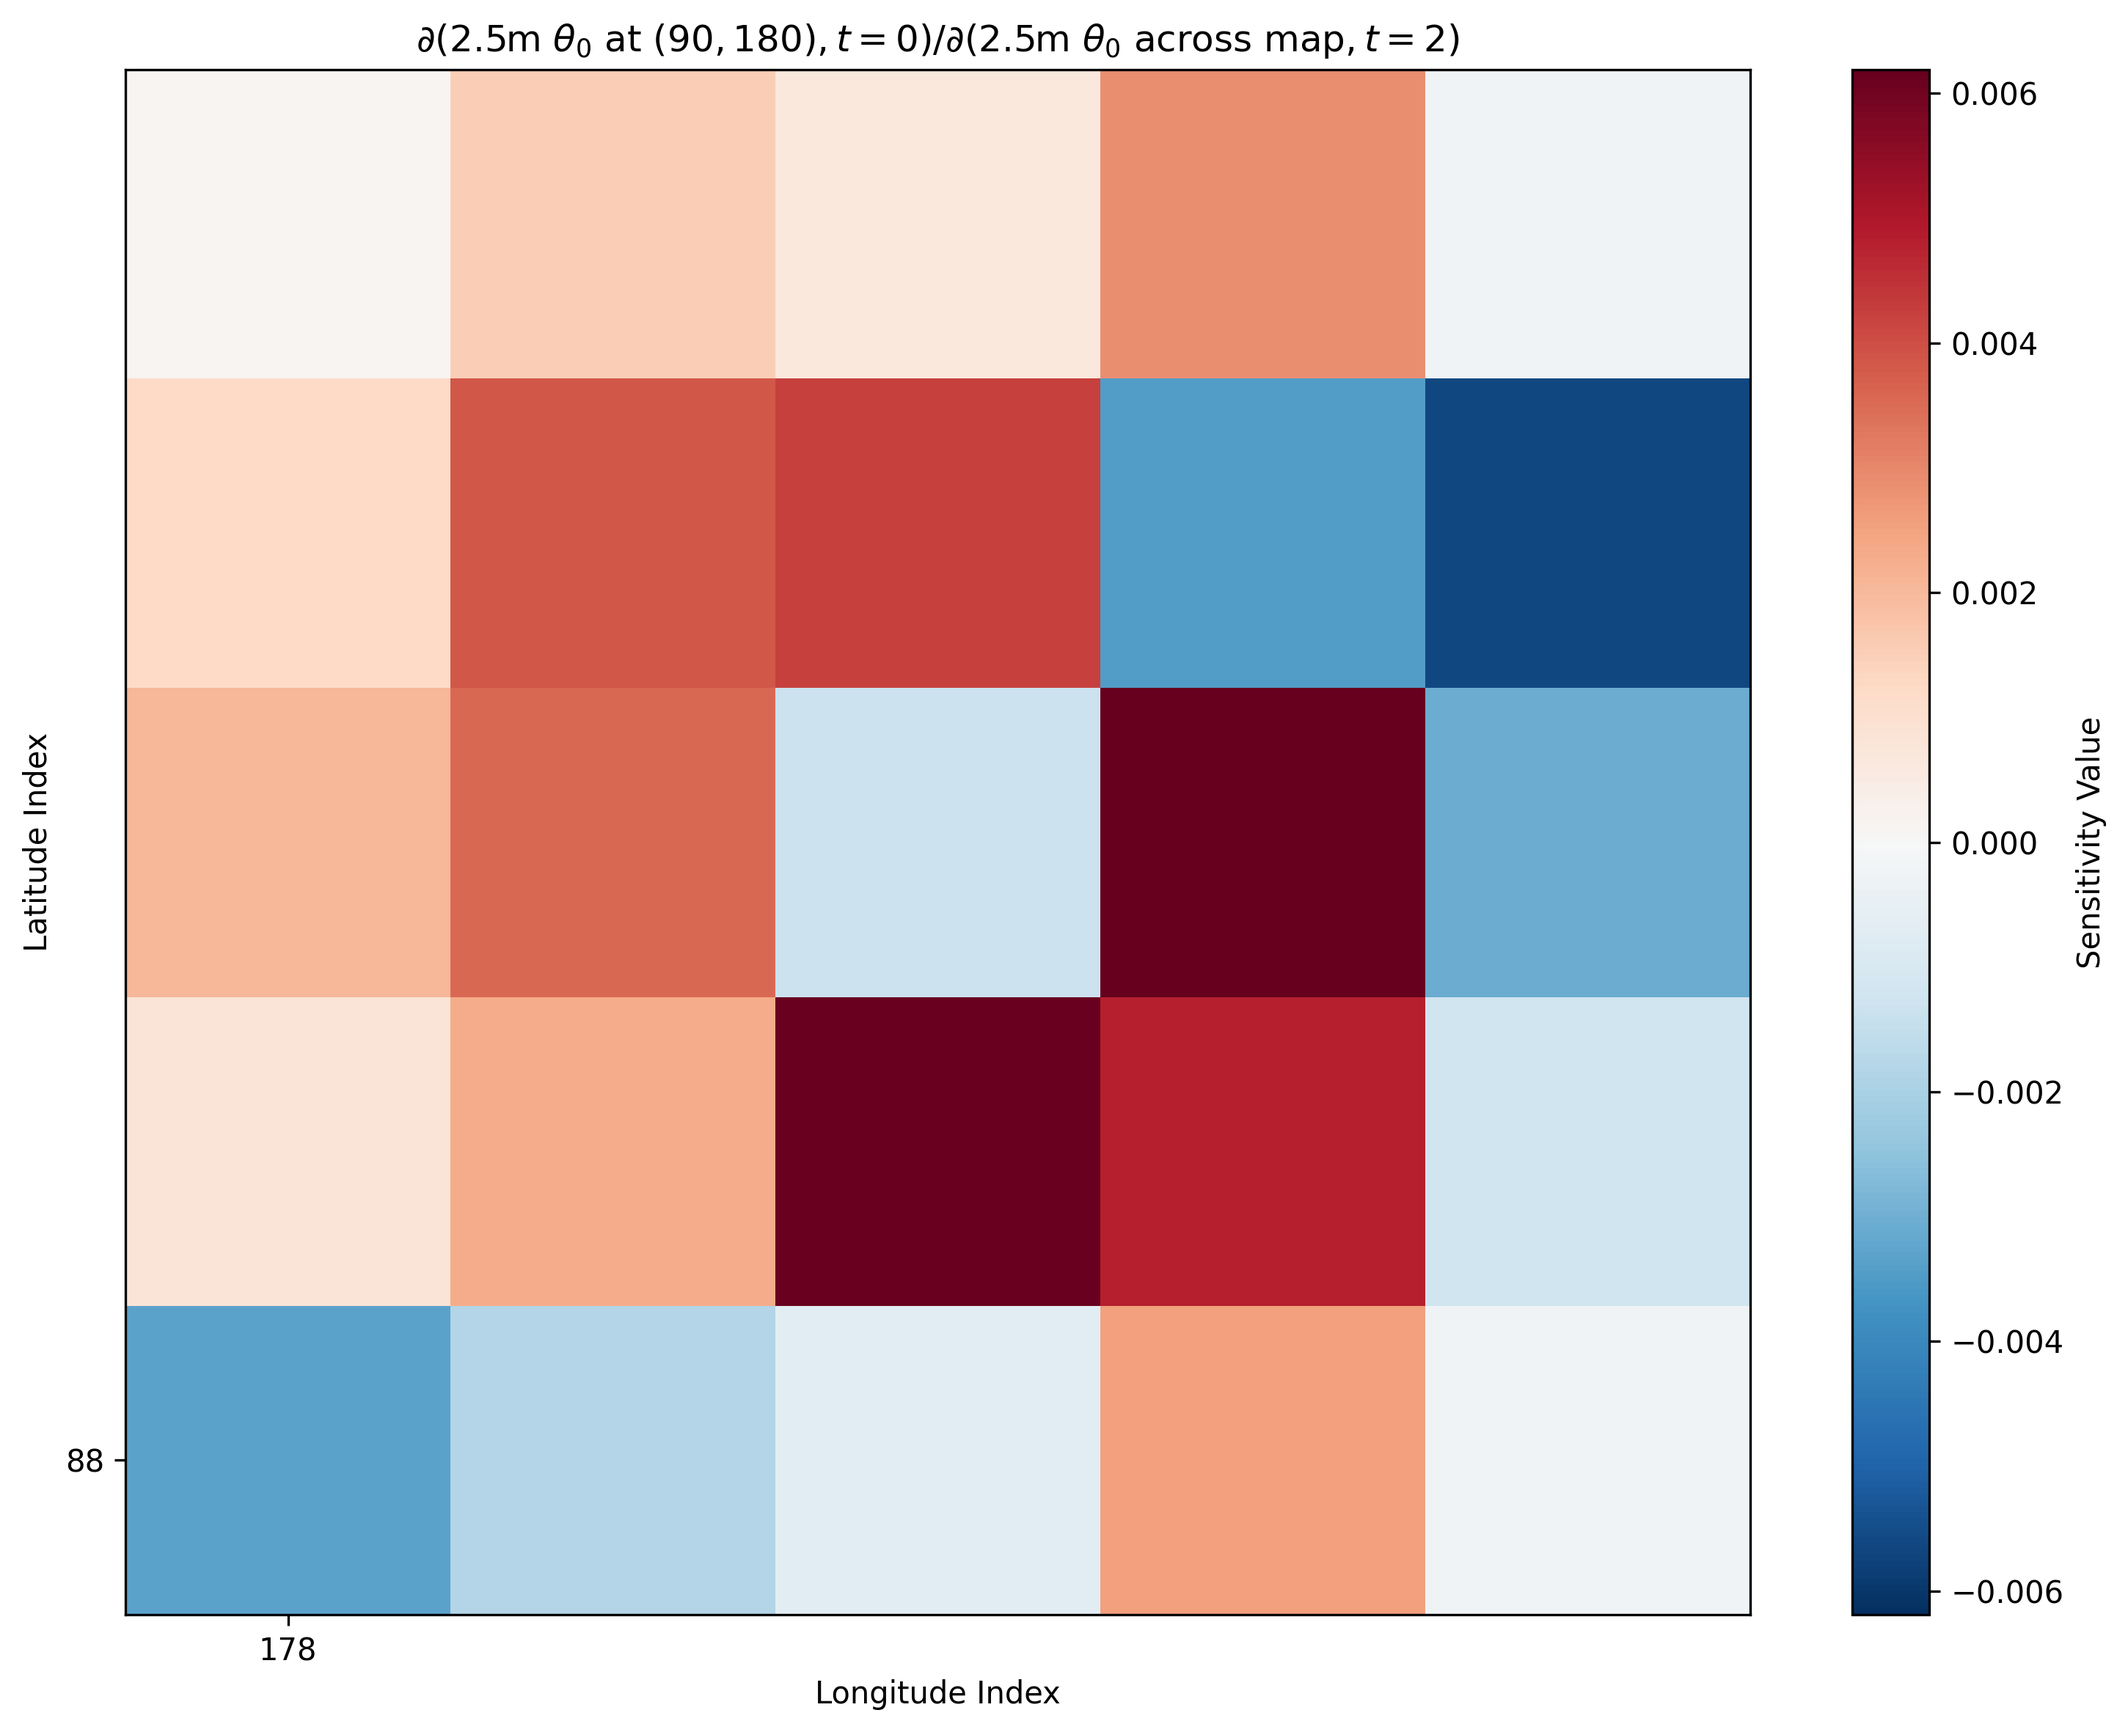
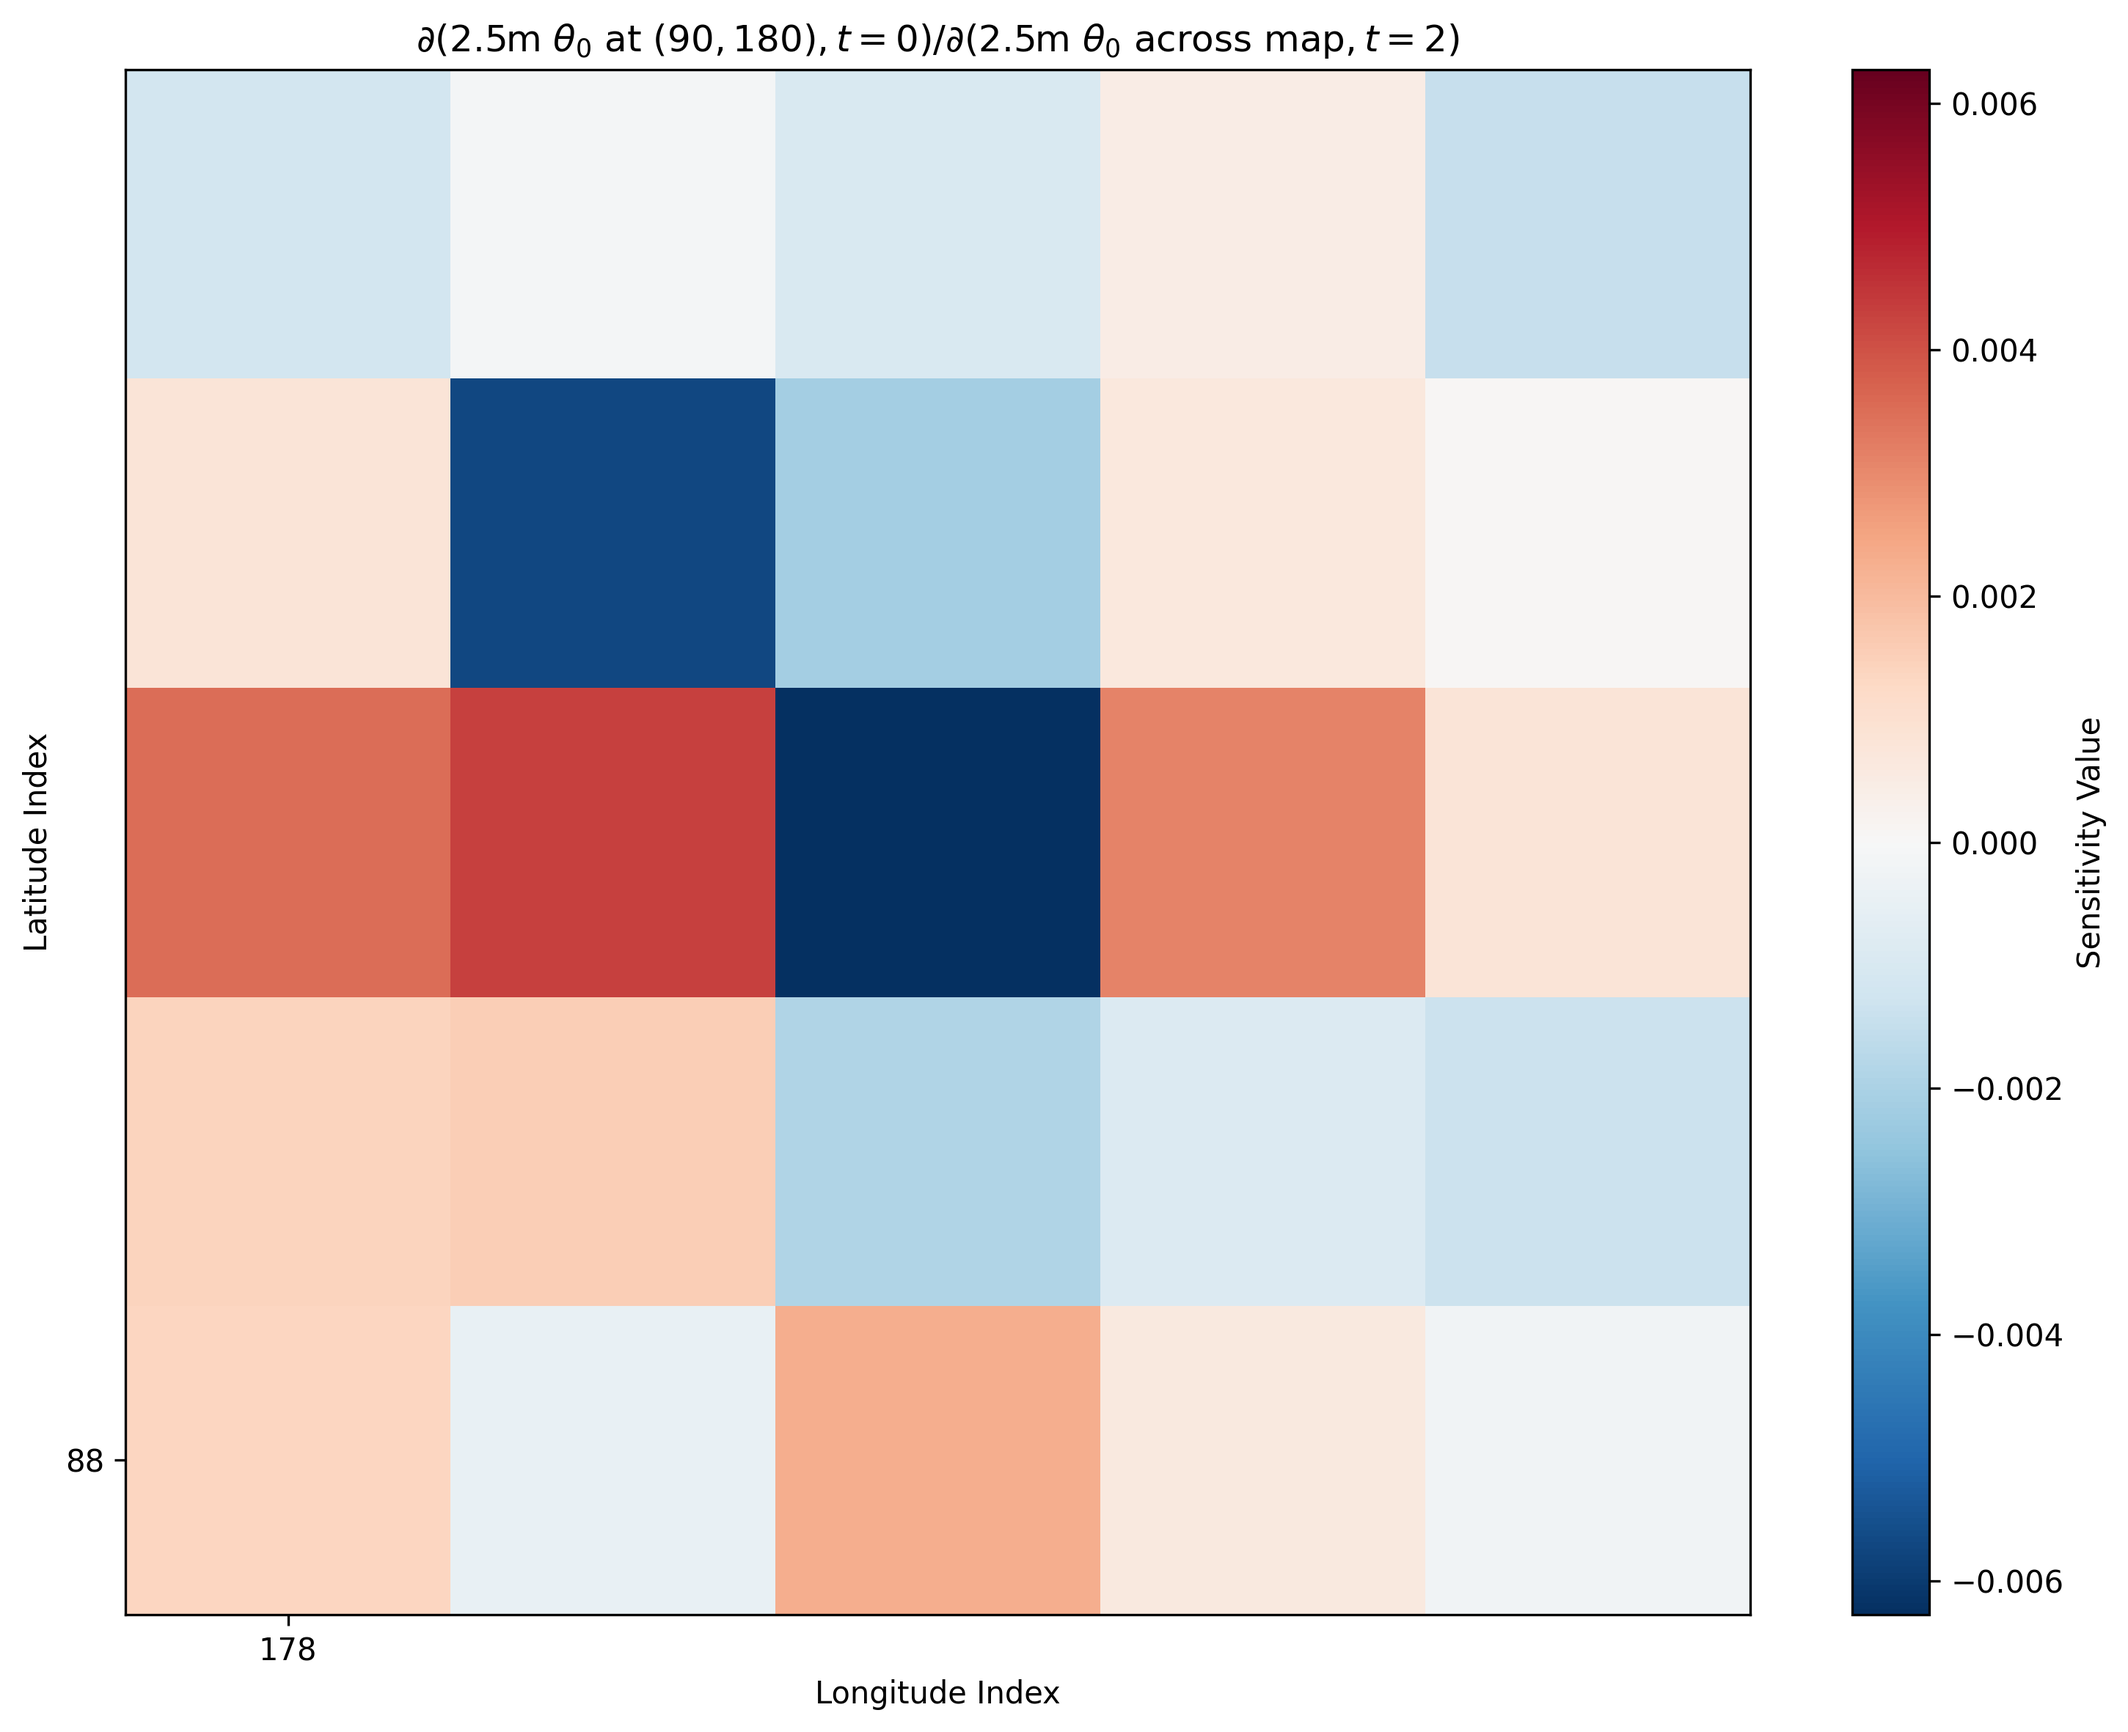
Running timer to check adjoint speed

diff --git a/Samudra_Testing/samudra_adjoint.py b/Samudra_Testing/samudra_adjoint.py
@@ -19,14 +19,16 @@ from pathlib import Path
 import setup
 import model_adjoint
 
+timer = setup.Timer()
+
 ### PARAMETERS ###
 
 # Time steps for sensitivity analysis
 initial_time = 0        # Starting time step
 final_time =   2          # Ending time step 
 # Choose channel index to study
-initial_channel_indices = [154,155] # tauuo, tauvo
-final_channel_indices = [76]  # zos
+initial_channel_indices = [0]#[154,155] # tauuo, tauvo
+final_channel_indices = [0]#[76]  # zos
 
 num_in_channels = len(initial_channel_indices)
 num_out_channels = len(final_channel_indices)
@@ -59,11 +61,14 @@ num_input_channels, num_output_channels = list_num_channels
 # Get indices for loading data
 s_train, e_train, s_test, e_test = setup.compute_indices(hist=hist, N_samples=2850, N_val=50, N_test=N_test)
 
+timer.checkpoint("Environment configured")
+
 # Load the data
 test_data, wet, data_mean, data_std = setup.load_data(s_test, e_test, N_test,
                                                         input_list_str, boundary_list_str, output_list_str,
                                                         hist=hist, device=device)
 
+timer.checkpoint("Data loaded")
 
 # Initialize SamudraAdjoint with the same parameters as the original model
 adjoint_model = model_adjoint.SamudraAdjoint(
@@ -75,6 +80,8 @@ adjoint_model = model_adjoint.SamudraAdjoint(
 
 adjoint_model = setup.load_weights(adjoint_model, state_out_vars_config, 
                  device=device)
+
+timer.checkpoint("Model loaded")
 
 
 print(f"Our data has the shape {test_data[0][0].shape}")
@@ -92,6 +99,7 @@ final_indices = [[0, c, final_lat, final_lon] for c in final_channel_indices]  #
 print(f"Final point for sensitivity: {final_indices}")  
 
 print(f"Computing sensitivity matrix for {len(initial_indices)} initial points and {len(final_indices)} final points")
+
 
 
 ### COMPUTE SENSITIVITY AND SAVE RESULTS###
@@ -126,6 +134,8 @@ def one_timestep(initial_time, final_time):
         use_checkpointing=True  # Set to True for larger computation
     )
 
+    timer.checkpoint("Finished computing sensitivity matrix")
+
     # Print the results
     print(f"Computed sensitivity matrix shape: {sensitivity_matrix.shape}")
 
@@ -149,11 +159,18 @@ def one_timestep(initial_time, final_time):
             # Save to file
             np.save(filename, sensitivity_np)
 
+
+timer.checkpoint("Finished setting up")
+
 one_timestep(initial_time, final_time)
+
+timer.checkpoint("Finished saving sensitivity matrix")
 
 
 
 def multi_timestep(initial_time, final_time):
+    raise NotImplementedError("We need to implement multi-channel sensitivity analysis \
+                              before this function is usable again!")
     final_time = final_time 
     times = [i for i in range(initial_time, final_time+1)]
 

diff --git a/Samudra_Testing/plot_sensitivity.py b/Samudra_Testing/plot_sensitivity.py
@@ -9,10 +9,10 @@ t_start,t_end = 0, 2
 magnitude = 3
 perturb_grid_size = 5
 
-def plot(t0,t1, magn, grid_size, draw_corr=False):
+def plot(t0,t1, magn, grid_size, draw_corr=False, manual_path = None):
 
     ### PARAMETERS ###
-    size = "manual"
+    size = "global"
     
 
     fd_path = f'perturb_sensitivity_grid_{grid_size}x{grid_size}_t={t0},{t1}_1e-{magn}.npy' #
@@ -42,6 +42,10 @@ def plot(t0,t1, magn, grid_size, draw_corr=False):
 
     # Path to the sensitivity matrix file
     path = f'adjoint_sensitivity_matrix_t={t0},{t1}.npy'
+    
+    if manual_path:
+        path = manual_path
+        print(f"Using manual path: {path}")
 
     # Load the sensitivity matrix
     sensitivity_matrix = np.load(path)
@@ -49,7 +53,7 @@ def plot(t0,t1, magn, grid_size, draw_corr=False):
 
     # Load the finite difference sensitivity grid
     
-    if Path(fd_path).exists():
+    if Path(fd_path).exists() and not manual_path:
         fd_sensitivity = np.load(fd_path)
         print(f"Loaded finite difference sensitivity with shape: {fd_sensitivity.shape}")
         has_fd_sensitivity = True
@@ -133,6 +137,8 @@ def plot(t0,t1, magn, grid_size, draw_corr=False):
 
     if draw_corr:
         name = f'fd_sensitivity_map_{x}-{y}_t={t0},{t1}_{size}.png'
+    if manual_path:
+        name = manual_path.replace('.npy', '.png')
     print(name)
     plt.savefig(name, dpi=300, bbox_inches='tight')
 
@@ -201,5 +207,5 @@ def plot(t0,t1, magn, grid_size, draw_corr=False):
 #for t0 in range(t_start, t_end):
 #    print(t0)
 #    plot(t0,t_end)
-
-plot(t_start, t_end, magnitude, perturb_grid_size, draw_corr=True)
+manual_path = 'adjoint_sensitivity_matrix_in_ch154_out_ch76_t=0,2.npy'
+plot(t_start, t_end, magnitude, perturb_grid_size, draw_corr=False, manual_path=manual_path)

diff --git a/Samudra_Testing/model_adjoint.py b/Samudra_Testing/model_adjoint.py
@@ -277,6 +277,7 @@ class SamudraAdjoint(model.Samudra):
                     if elem.grad is not None:
                         elem.grad.zero_()
                 
+                print("Backwards run initiated")
                 # Compute gradients
                 output_element.backward(retain_graph=True)
                 
